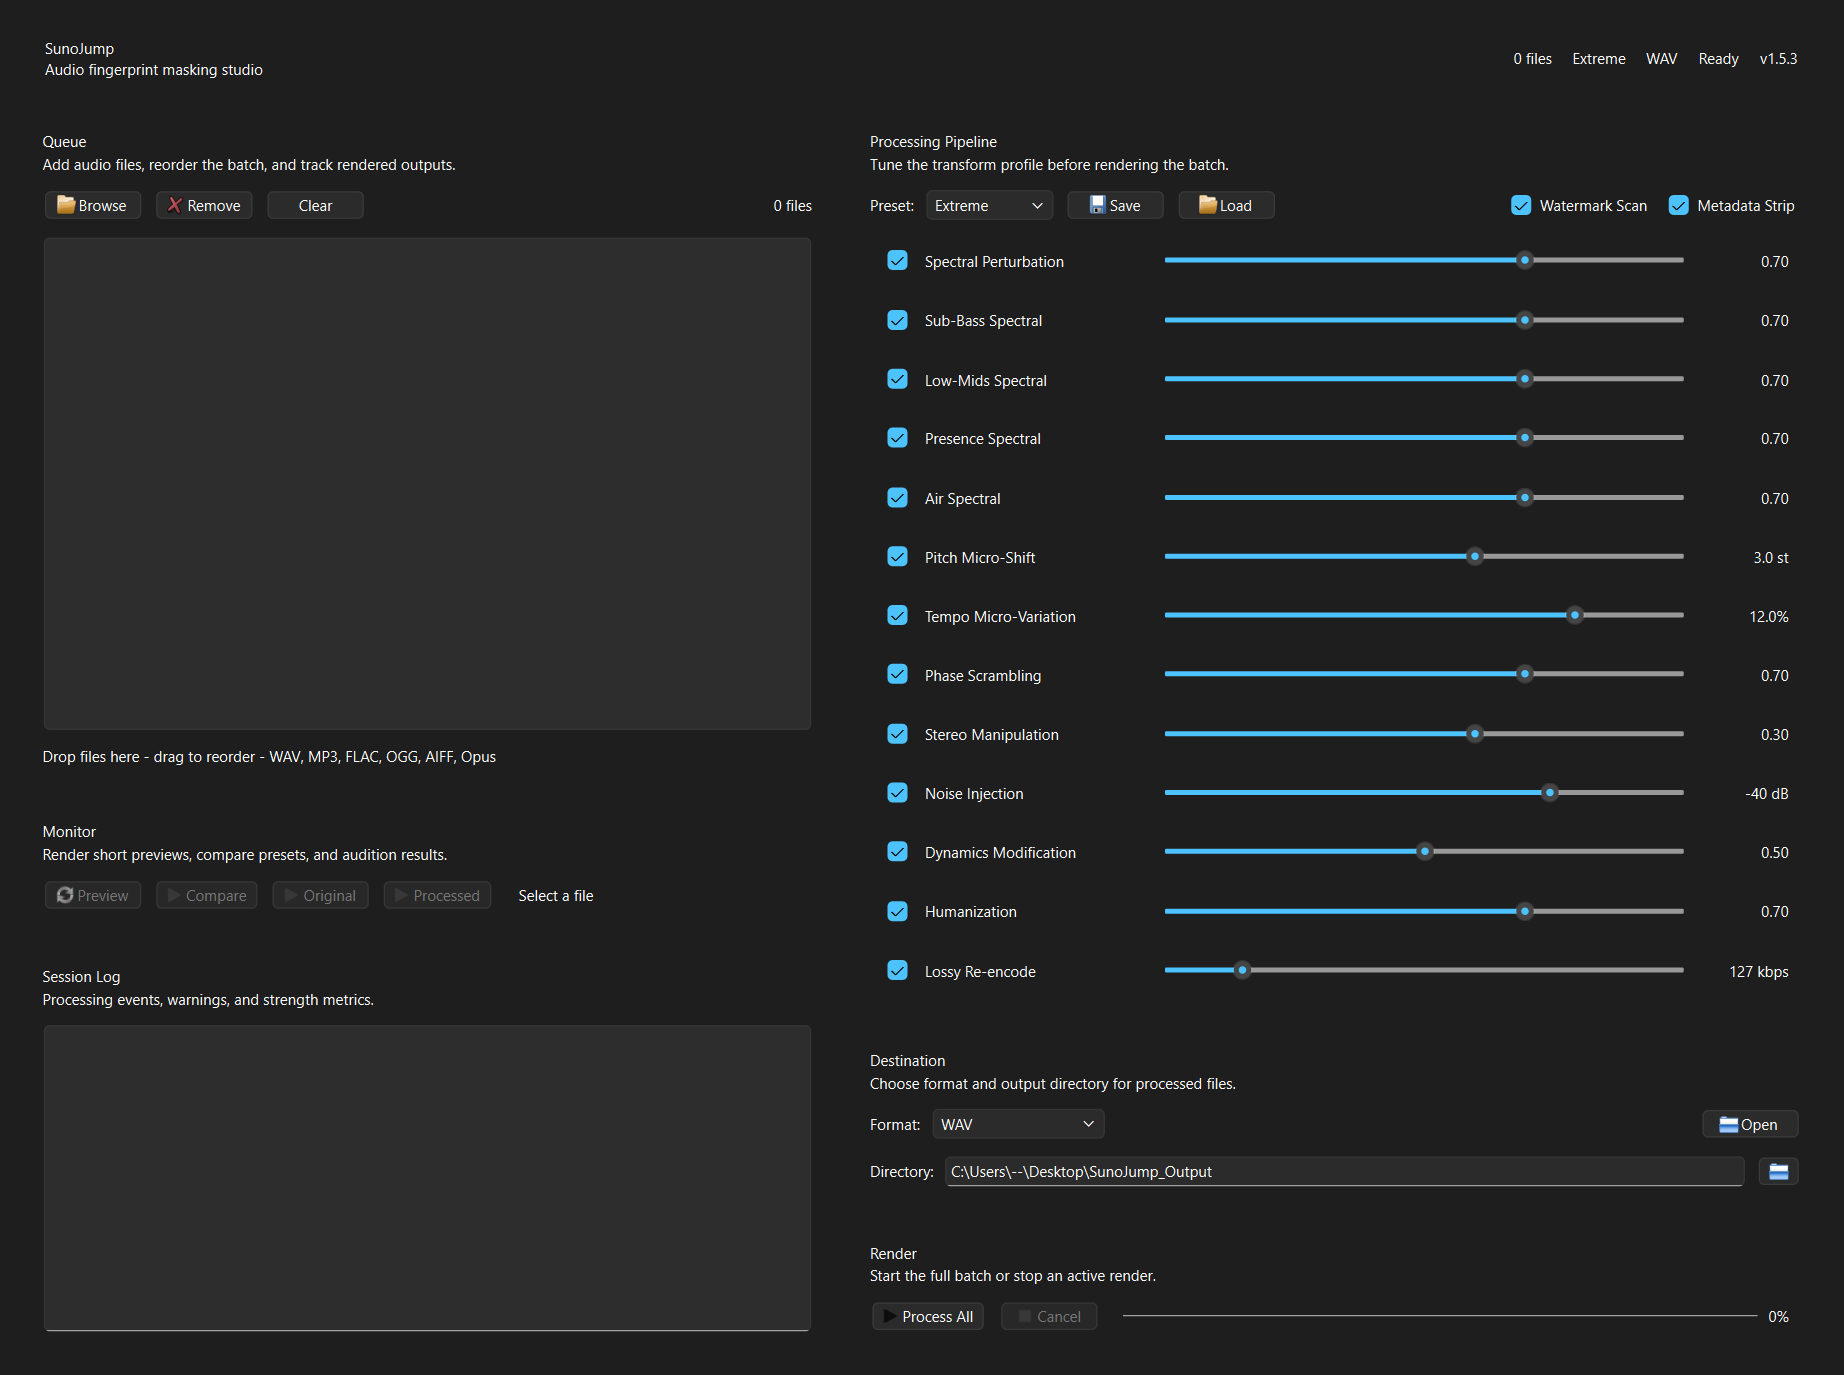
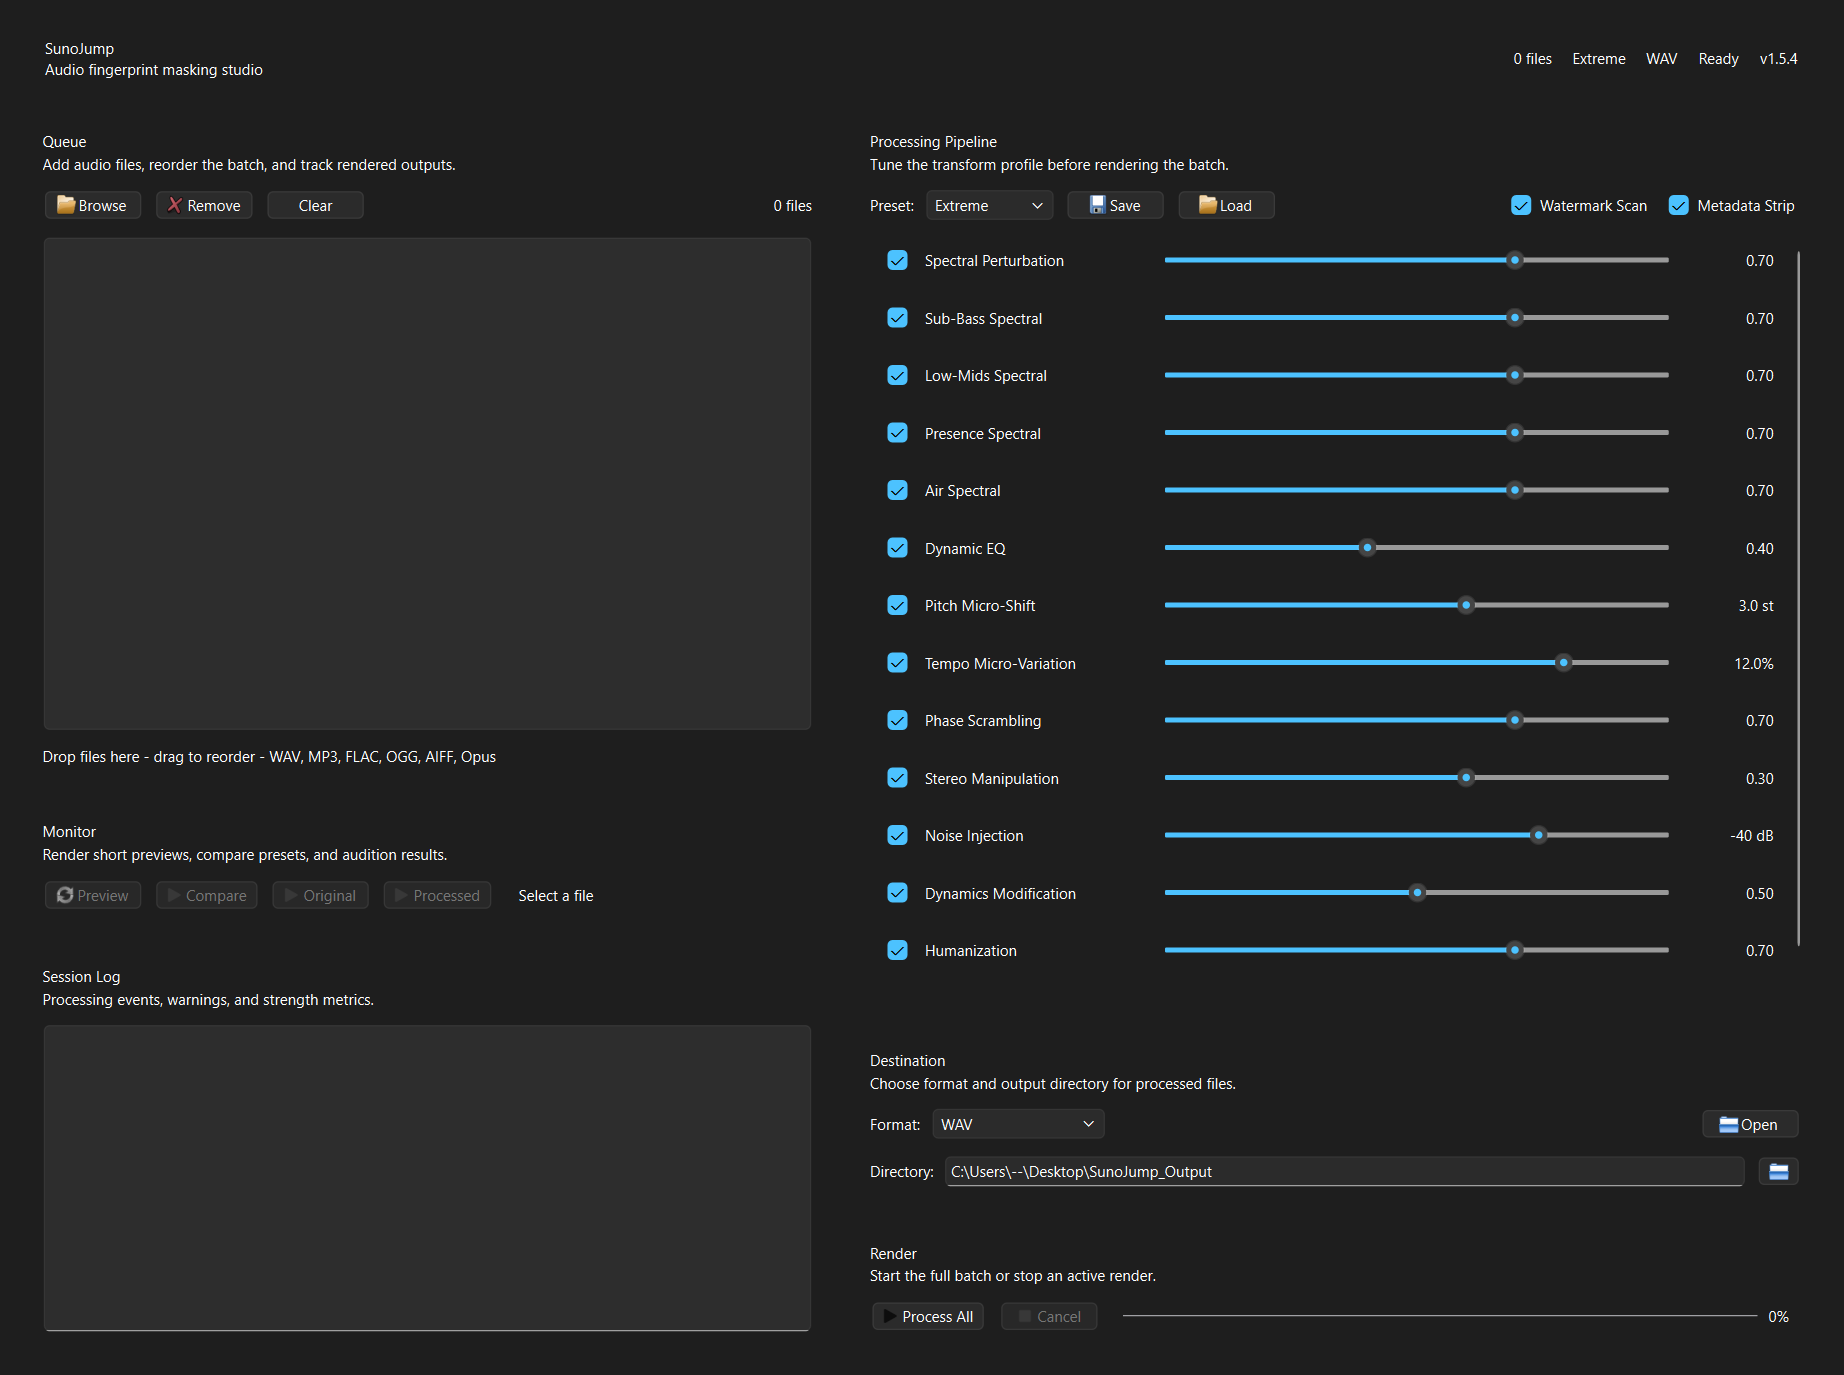
feat: add loudness matched dynamic eq

diff --git a/sunojump.py b/sunojump.py
@@ -1,7 +1,7 @@
 #!/usr/bin/env python3
-"""SunoJump v1.5.3 - Audio fingerprint masking tool for Suno AI"""
+"""SunoJump v1.5.4 - Audio fingerprint masking tool for Suno AI"""
 
-VERSION = "1.5.3"
+VERSION = "1.5.4"
 APP_NAME = "SunoJump"
 
 # --- Bootstrap ---
@@ -102,6 +102,7 @@ PRESETS = {
         'spectral_low_mids_enabled': True, 'spectral_low_mids_strength': 0.10,
         'spectral_presence_enabled': True, 'spectral_presence_strength': 0.10,
         'spectral_air_enabled': True, 'spectral_air_strength': 0.10,
+        'dynamic_eq_enabled': True, 'dynamic_eq_amount': 0.10,
         'pitch_enabled': True, 'pitch_range': 0.30,
         'tempo_enabled': True, 'tempo_range': 0.02,
         'phase_enabled': True, 'phase_amount': 0.10,
@@ -119,6 +120,7 @@ PRESETS = {
         'spectral_low_mids_enabled': True, 'spectral_low_mids_strength': 0.30,
         'spectral_presence_enabled': True, 'spectral_presence_strength': 0.30,
         'spectral_air_enabled': True, 'spectral_air_strength': 0.30,
+        'dynamic_eq_enabled': True, 'dynamic_eq_amount': 0.20,
         'pitch_enabled': True, 'pitch_range': 0.80,
         'tempo_enabled': True, 'tempo_range': 0.05,
         'phase_enabled': True, 'phase_amount': 0.30,
@@ -136,6 +138,7 @@ PRESETS = {
         'spectral_low_mids_enabled': True, 'spectral_low_mids_strength': 0.50,
         'spectral_presence_enabled': True, 'spectral_presence_strength': 0.50,
         'spectral_air_enabled': True, 'spectral_air_strength': 0.50,
+        'dynamic_eq_enabled': True, 'dynamic_eq_amount': 0.30,
         'pitch_enabled': True, 'pitch_range': 1.50,
         'tempo_enabled': True, 'tempo_range': 0.08,
         'phase_enabled': True, 'phase_amount': 0.50,
@@ -153,6 +156,7 @@ PRESETS = {
         'spectral_low_mids_enabled': True, 'spectral_low_mids_strength': 0.70,
         'spectral_presence_enabled': True, 'spectral_presence_strength': 0.70,
         'spectral_air_enabled': True, 'spectral_air_strength': 0.70,
+        'dynamic_eq_enabled': True, 'dynamic_eq_amount': 0.40,
         'pitch_enabled': True, 'pitch_range': 3.00,
         'tempo_enabled': True, 'tempo_range': 0.12,
         'phase_enabled': True, 'phase_amount': 0.70,
@@ -171,6 +175,7 @@ PARAM_DEFS = [
     ('spectral_low_mids_strength', 'Low-Mids Spectral', 0.0, 1.0, 0.30, '', 2, 'spectral_low_mids_enabled', 1.0),
     ('spectral_presence_strength', 'Presence Spectral', 0.0, 1.0, 0.30, '', 2, 'spectral_presence_enabled', 1.0),
     ('spectral_air_strength', 'Air Spectral', 0.0, 1.0, 0.30, '', 2, 'spectral_air_enabled', 1.0),
+    ('dynamic_eq_amount', 'Dynamic EQ', 0.0, 1.0, 0.20, '', 2, 'dynamic_eq_enabled', 1.0),
     ('pitch_range', 'Pitch Micro-Shift', 0.0, 5.0, 0.80, ' st', 1, 'pitch_enabled', 1.0),
     ('tempo_range', 'Tempo Micro-Variation', 0.0, 0.15, 0.05, '%', 1, 'tempo_enabled', 100.0),
     ('phase_amount', 'Phase Scrambling', 0.0, 1.0, 0.30, '', 2, 'phase_enabled', 1.0),
@@ -192,6 +197,13 @@ SPECTRAL_BANDS = (
     ('spectral_air', 10000.0, None, 0.40),
 )
 WATERMARK_SCAN_MAX_CANDIDATES = 5
+DYNAMIC_EQ_BANDS = (
+    (60.0, 180.0, 1.2),
+    (180.0, 700.0, 1.0),
+    (700.0, 2500.0, 0.9),
+    (2500.0, 6500.0, 1.1),
+    (6500.0, None, 1.3),
+)
 
 # --- Stylesheet ---
 STYLE = f"""
@@ -577,6 +589,8 @@ class AudioProcessor:
             if self.params.get('watermark_scan_enabled', True):
                 pass_names.append('Watermark Band Scan')
             pass_names.append('Spectral Perturbation')
+        if self.params.get('dynamic_eq_enabled'):
+            pass_names.append('Dynamic EQ')
         if coupled_pitch_tempo:
             pass_names.append('Coupled Pitch/Tempo Micro-Variation')
         else:
@@ -622,6 +636,8 @@ class AudioProcessor:
                         self.log("    Candidate bands: none")
                 elif name == 'Spectral Perturbation':
                     audio = self._spectral_perturb(audio, sr)
+                elif name == 'Dynamic EQ':
+                    audio = self._dynamic_eq(audio, sr)
                 elif name == 'Coupled Pitch/Tempo Micro-Variation':
                     audio = self._pitch_tempo_coupled_microvar(audio, sr)
                 elif name == 'Pitch Micro-Shift':
@@ -899,6 +915,94 @@ class AudioProcessor:
         except (TypeError, ValueError):
             value = fallback
         return float(np.clip(value, 0.0, 1.0))
+
+    # --- Dynamic EQ with loudness-preserving gain staging ---
+    def _dynamic_eq(self, audio, sr):
+        amount = self.params.get('dynamic_eq_amount', 0.2)
+        if amount < 0.001:
+            return audio
+
+        reference = audio.copy()
+        result = np.zeros_like(audio)
+        for ch in range(audio.shape[1]):
+            result[:, ch] = self._dynamic_eq_ch(audio[:, ch], sr, amount)
+
+        return self._match_lufs(result, reference, sr)
+
+    def _dynamic_eq_ch(self, channel, sr, amount):
+        nperseg = _nperseg_for(len(channel))
+        if nperseg == 0:
+            return channel.copy()
+        noverlap = nperseg // 2
+
+        f, _, Zxx = signal.stft(channel, sr, nperseg=nperseg, noverlap=noverlap)
+        mag = np.abs(Zxx)
+        phase = np.angle(Zxx)
+        eps = 1e-12
+
+        for low_hz, high_hz, max_db in DYNAMIC_EQ_BANDS:
+            if high_hz is None:
+                band_mask = f >= low_hz
+            else:
+                band_mask = (f >= low_hz) & (f < high_hz)
+            if not np.any(band_mask):
+                continue
+
+            band_energy = np.mean(mag[band_mask], axis=0)
+            median = np.median(band_energy) + eps
+            relative_db = 20.0 * np.log10(np.maximum(band_energy, eps) / median)
+            gain_db = -np.tanh(relative_db / 10.0) * max_db * amount
+
+            if len(gain_db) > 2:
+                jitter = self.rng.normal(0.0, 0.18 * amount, len(gain_db))
+                kernel = min(9, (len(gain_db) // 2) * 2 - 1)
+                if kernel >= 3:
+                    jitter = signal.medfilt(jitter, kernel_size=kernel)
+                gain_db += jitter
+
+            gain = 10.0 ** (gain_db / 20.0)
+            mag[band_mask] *= gain[np.newaxis, :]
+
+        Zxx_new = mag * np.exp(1j * phase)
+        _, result = signal.istft(Zxx_new, sr, nperseg=nperseg, noverlap=noverlap)
+        if len(result) > len(channel):
+            result = result[:len(channel)]
+        elif len(result) < len(channel):
+            result = np.pad(result, (0, len(channel) - len(result)))
+        return result
+
+    def _integrated_lufs(self, audio, sr):
+        if audio.size == 0:
+            return -np.inf
+        if audio.ndim == 1:
+            work = audio[:, np.newaxis]
+        else:
+            work = audio
+
+        try:
+            sos = signal.butter(2, 60.0, btype='highpass', fs=sr, output='sos')
+            weighted = signal.sosfilt(sos, work, axis=0)
+        except Exception:
+            weighted = work
+
+        mean_square = np.mean(np.square(weighted), axis=0)
+        loudness_power = float(np.mean(mean_square))
+        if loudness_power <= 1e-12:
+            return -np.inf
+        return -0.691 + 10.0 * np.log10(loudness_power)
+
+    def _match_lufs(self, audio, reference, sr):
+        ref_lufs = self._integrated_lufs(reference, sr)
+        audio_lufs = self._integrated_lufs(audio, sr)
+        if not np.isfinite(ref_lufs) or not np.isfinite(audio_lufs):
+            return audio
+
+        gain_db = float(np.clip(ref_lufs - audio_lufs, -6.0, 6.0))
+        matched = audio * (10.0 ** (gain_db / 20.0))
+        peak = float(np.max(np.abs(matched))) if matched.size else 0.0
+        if peak > 0.98:
+            matched = matched * (0.98 / peak)
+        return matched
 
     # --- Coupled pitch + tempo micro-variation ---
     def _pitch_tempo_coupled_microvar(self, audio, sr):
@@ -2990,6 +3094,7 @@ def cli_main():
                         help='Presence-band spectral perturbation (0.0-1.0)')
     parser.add_argument('--spectral-air', type=float,
                         help='Air-band spectral perturbation (0.0-1.0)')
+    parser.add_argument('--dynamic-eq', type=float, help='Dynamic EQ amount (0.0-1.0)')
     parser.add_argument('--pitch', type=float, help='Pitch micro-shift in semitones (0.0-5.0)')
     parser.add_argument('--tempo', type=float, help='Tempo variation (0.0-0.15)')
     parser.add_argument('--phase', type=float, help='Phase scrambling (0.0-1.0)')
@@ -3052,6 +3157,9 @@ def cli_main():
     if args.spectral_air is not None:
         params['spectral_air_strength'] = _clamp(args.spectral_air, 0.0, 1.0, 'spectral-air')
         params['spectral_air_enabled'] = True
+    if args.dynamic_eq is not None:
+        params['dynamic_eq_amount'] = _clamp(args.dynamic_eq, 0.0, 1.0, 'dynamic-eq')
+        params['dynamic_eq_enabled'] = True
     if args.pitch is not None:
         params['pitch_range'] = _clamp(args.pitch, 0.0, 5.0, 'pitch')
     if args.tempo is not None:

diff --git a/tests/test_audio_processor.py b/tests/test_audio_processor.py
@@ -125,5 +125,33 @@ class WatermarkScanTests(unittest.TestCase):
         self.assertGreater(np.max(np.abs(out - audio)), 1e-6)
 
 
+class DynamicEqTests(unittest.TestCase):
+    def test_dynamic_eq_preserves_loudness(self):
+        sr = 16000
+        t = np.arange(sr * 2, dtype=np.float64) / sr
+        envelope = 0.6 + 0.3 * np.sin(2.0 * np.pi * 1.5 * t)
+        left = envelope * (
+            0.20 * np.sin(2.0 * np.pi * 140.0 * t)
+            + 0.16 * np.sin(2.0 * np.pi * 1200.0 * t)
+            + 0.12 * np.sin(2.0 * np.pi * 5200.0 * t)
+        )
+        right = envelope * (
+            0.18 * np.sin(2.0 * np.pi * 220.0 * t)
+            + 0.14 * np.sin(2.0 * np.pi * 2400.0 * t)
+            + 0.10 * np.sin(2.0 * np.pi * 7000.0 * t)
+        )
+        audio = np.column_stack([left, right])
+        proc = AudioProcessor({'dynamic_eq_amount': 0.8}, seed=123)
+
+        before = proc._integrated_lufs(audio, sr)
+        out = proc._dynamic_eq(audio, sr)
+        after = proc._integrated_lufs(out, sr)
+
+        self.assertEqual(out.shape, audio.shape)
+        self.assertTrue(np.all(np.isfinite(out)))
+        self.assertGreater(np.max(np.abs(out - audio)), 1e-6)
+        self.assertLess(abs(before - after), 0.25)
+
+
 if __name__ == '__main__':
     unittest.main()

diff --git a/README.md b/README.md
@@ -2,7 +2,7 @@
 
 <br>
 
-![Version](https://img.shields.io/badge/version-1.5.3-blue)
+![Version](https://img.shields.io/badge/version-1.5.4-blue)
 ![License](https://img.shields.io/badge/license-MIT-green)
 ![Platform](https://img.shields.io/badge/platform-Windows%20%7C%20macOS%20%7C%20Linux-lightgrey)
 
@@ -15,7 +15,7 @@ Audio fingerprint masking tool. Transforms audio files through a multi-pass proc
 
 ## How It Works
 
-SunoJump applies a 10-pass processing pipeline with **non-uniform segment-based transforms** — each segment of the audio gets slightly different processing parameters, breaking the constellation patterns that fingerprinting systems rely on.
+SunoJump applies an 11-pass processing pipeline with **non-uniform segment-based transforms** — each segment of the audio gets slightly different processing parameters, breaking the constellation patterns that fingerprinting systems rely on.
 
 ### Processing Pipeline
 
@@ -23,14 +23,15 @@ SunoJump applies a 10-pass processing pipeline with **non-uniform segment-based 
 |---|------|-------------|
 | 1 | **Metadata Strip** | Removes all embedded tags, IDs, and hidden metadata |
 | 2 | **Spectral Perturbation** | Scans candidate watermark bands, then perturbs frequency magnitudes with per-band controls for sub-bass, low-mids, presence, and air |
-| 3 | **Pitch Micro-Shift** | Non-uniform pitch warping across random segments |
-| 4 | **Tempo Micro-Variation** | Coupled in-segment timing drift that keeps segment boundaries beat-aligned |
-| 5 | **Phase Scrambling** | Randomizes phase relationships in STFT domain |
-| 6 | **Stereo Manipulation** | Mid-side processing to alter stereo field |
-| 7 | **Noise Injection** | Adds shaped pink noise to mask watermark energy |
-| 8 | **Dynamics Modification** | Per-frame random gain variation to break statistical patterns |
-| 9 | **Humanization** | Wow/flutter, dynamic breathing, micro noise floor |
-| 10 | **Lossy Re-encode** | MP3 encode/decode cycle to degrade fine watermark detail (requires ffmpeg) |
+| 3 | **Dynamic EQ** | Time-varying multiband EQ with LUFS-like gain matching |
+| 4 | **Pitch Micro-Shift** | Non-uniform pitch warping across random segments |
+| 5 | **Tempo Micro-Variation** | Coupled in-segment timing drift that keeps segment boundaries beat-aligned |
+| 6 | **Phase Scrambling** | Randomizes phase relationships in STFT domain |
+| 7 | **Stereo Manipulation** | Mid-side processing to alter stereo field |
+| 8 | **Noise Injection** | Adds shaped pink noise to mask watermark energy |
+| 9 | **Dynamics Modification** | Per-frame random gain variation to break statistical patterns |
+| 10 | **Humanization** | Wow/flutter, dynamic breathing, micro noise floor |
+| 11 | **Lossy Re-encode** | MP3 encode/decode cycle to degrade fine watermark detail (requires ffmpeg) |
 
 ### Key Differentiator: Non-Uniform Processing
 
@@ -59,7 +60,8 @@ All Python dependencies install automatically on first run.
 
 ## Features
 
-- **10-pass audio processing pipeline** — metadata strip, spectral perturbation, pitch/tempo micro-shift, phase scrambling, stereo manipulation, noise injection, dynamics, humanization, lossy re-encode
+- **11-pass audio processing pipeline** — metadata strip, spectral perturbation, dynamic EQ, pitch/tempo micro-shift, phase scrambling, stereo manipulation, noise injection, dynamics, humanization, lossy re-encode
+- **LUFS-preserving Dynamic EQ** — reshapes band energy without silently changing perceived loudness
 - **Watermark-band scan pre-pass** — auto-detects stable narrowband candidates per file and targets them during spectral perturbation
 - **Per-band spectral controls** — tune sub-bass, low-mids, presence, and air perturbation independently
 - **Coupled non-uniform pitch/tempo processing** — breaks constellation fingerprint patterns while keeping segment boundaries beat-aligned
@@ -117,6 +119,7 @@ python sunojump.py -i song.wav -p aggressive --reencode 128
 | `--spectral-low-mids` | Low-mids spectral perturbation (0.0-1.0) | preset |
 | `--spectral-presence` | Presence-band spectral perturbation (0.0-1.0) | preset |
 | `--spectral-air` | Air-band spectral perturbation (0.0-1.0) | preset |
+| `--dynamic-eq` | Dynamic EQ amount (0.0-1.0) | preset |
 | `--pitch` | Pitch micro-shift in semitones (0.0-5.0) | preset |
 | `--tempo` | Tempo variation (0.0-0.15) | preset |
 | `--phase` | Phase scrambling (0.0-1.0) | preset |
